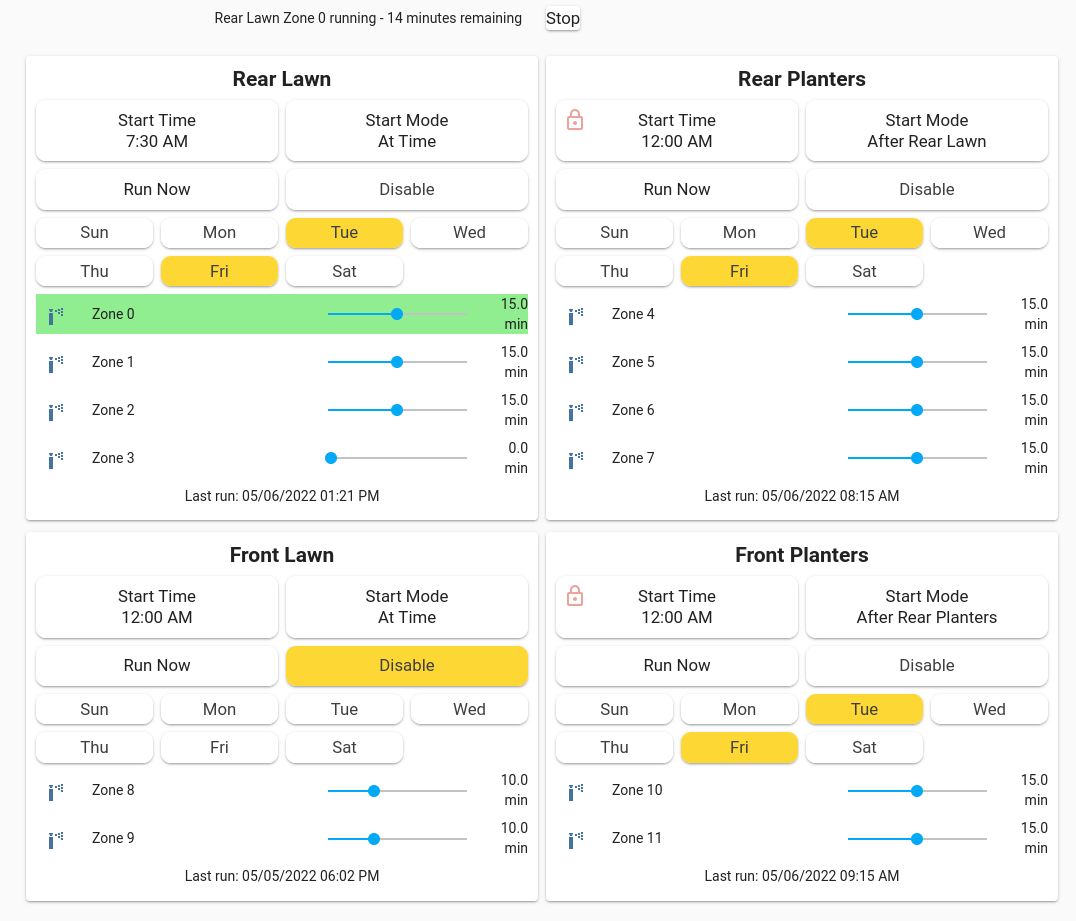
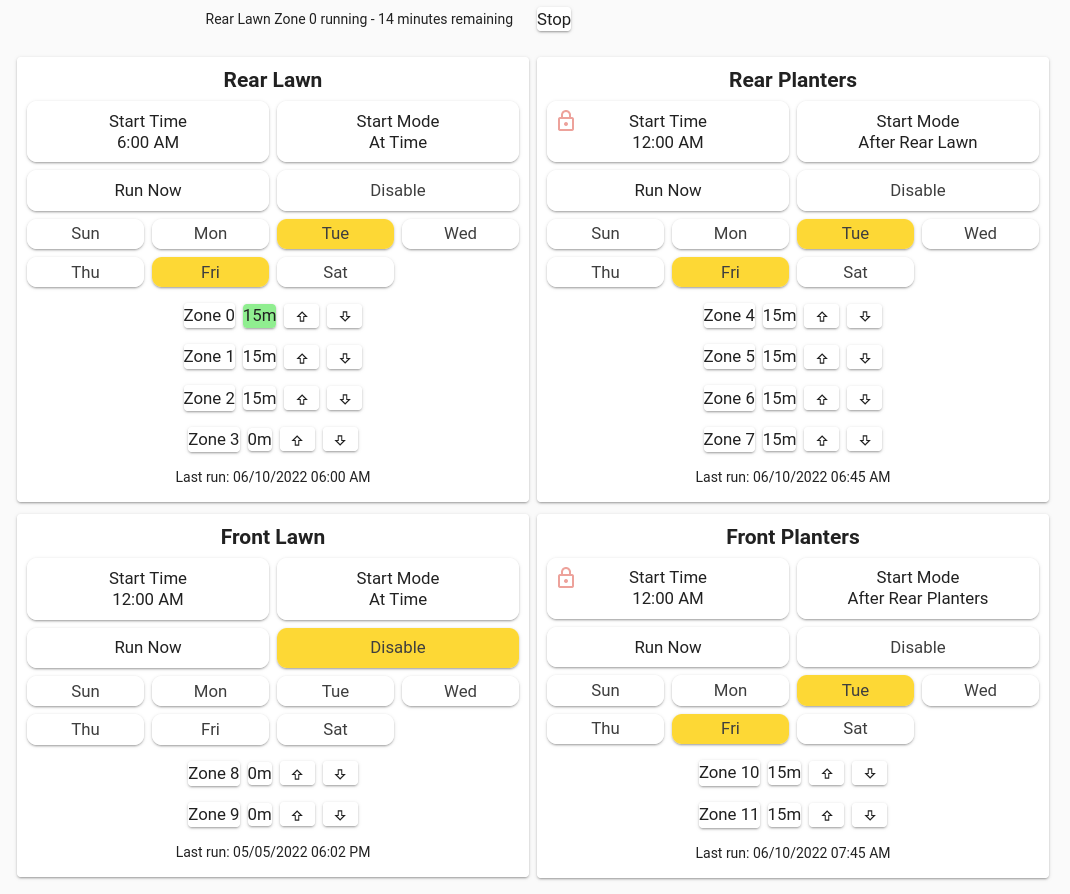
individual zone control

diff --git a/README.md b/README.md
@@ -47,10 +47,6 @@ on.  Sending the command 'off' will turn off all valves.  The hostname and
 port for the UDP interface are set using the SPRINKER_HOST and SPRINKLER_PORT
 macros.
 
-### Todo
-
-- Individual zone control
-
 ## License
 
 _Licensed under the MIT License, Copyright (c) 2022 Greg Renda_
